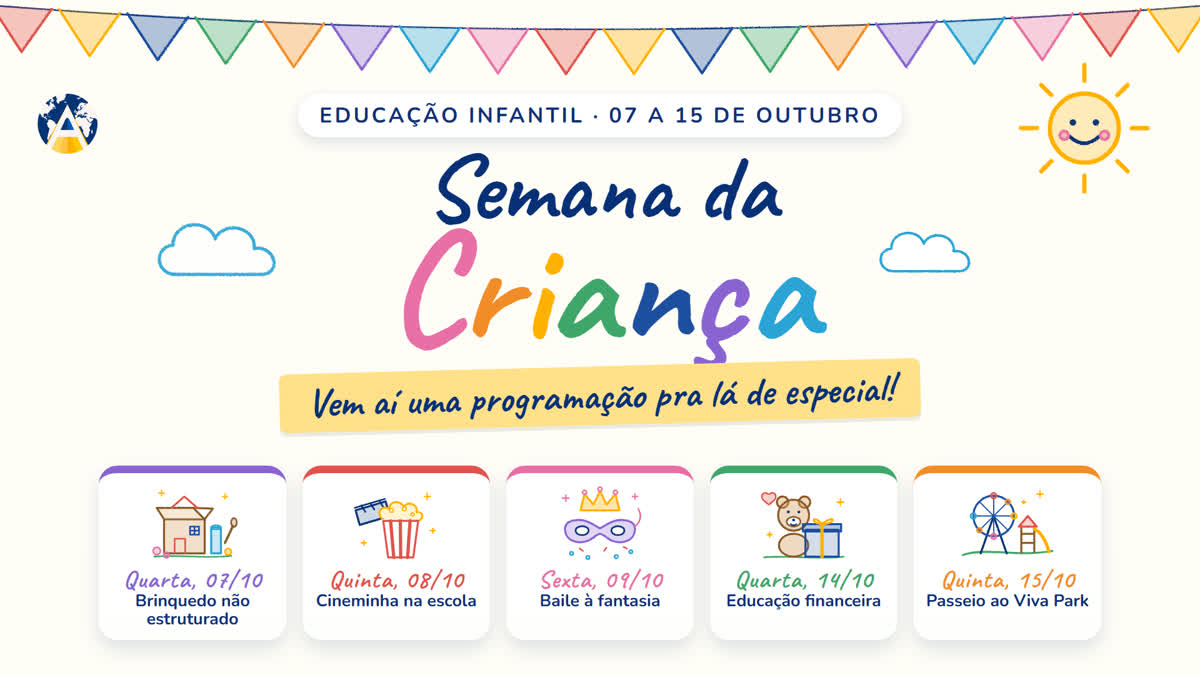
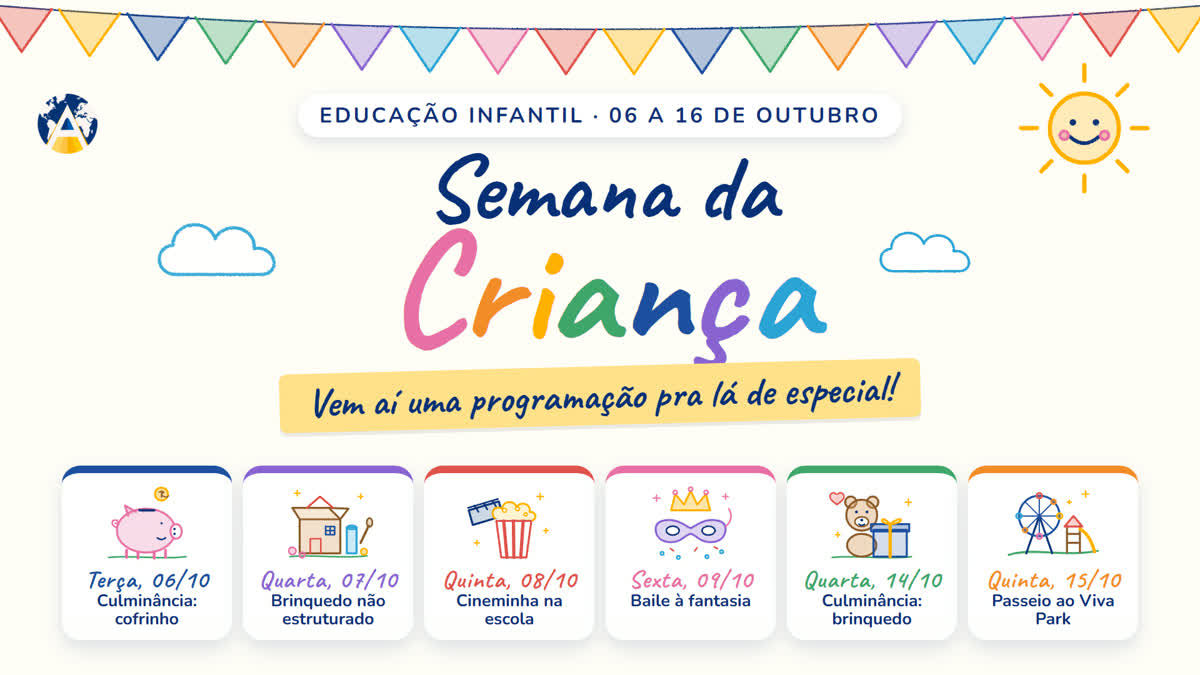
fix(semanadacrianca): programação revisada pela coordenação do Infantil (06/10 culminância, 09/10 baile com texto novo, 12/10 feriado, 15/10 passeio 13h–17h sem aula, 16/10 sem aula)

Changed region(s): [[0.0308, 0.6844, 0.9558, 0.9333], [0.8942, 0.6844, 0.9558, 0.7156], [0.5242, 0.1556, 0.5858, 0.1867]]

diff --git a/public/semanadacrianca/index.html b/public/semanadacrianca/index.html
@@ -4,9 +4,9 @@
 <meta charset="utf-8">
 <meta name="viewport" content="width=device-width, initial-scale=1, viewport-fit=cover">
 <title>Semana da Criança · Infantil</title>
-<meta name="description" content="Programação da Semana da Criança da Educação Infantil, de 07 a 15 de outubro.">
+<meta name="description" content="Programação da Semana da Criança da Educação Infantil, de 06 a 16 de outubro.">
 <meta property="og:title" content="Semana da Criança · Educação Infantil">
-<meta property="og:description" content="07 a 15 de outubro: vire as páginas e veja a programação de cada dia.">
+<meta property="og:description" content="06 a 16 de outubro: vire as páginas e veja a programação de cada dia.">
 <meta property="og:image" content="https://www.escolaamadeus.com/semanadacrianca/banner.jpg">
 <meta property="og:image:width" content="1200"><meta property="og:image:height" content="675"><meta property="og:url" content="https://www.escolaamadeus.com/semanadacrianca"><meta name="theme-color" content="#FAF7F0">
 <link rel="preconnect" href="https://fonts.googleapis.com">
@@ -57,11 +57,11 @@
   .agenda-p .miolo { justify-content: safe center; }
   .agenda-p h2 { font: 700 42px/.95 Caveat, cursive; color: var(--mar); }
   .agenda-p .sub { margin-top: 6px; font-size: 15px; }
-  .agenda { list-style: none; margin-top: 16px; display: grid; gap: 10px; }
-  .agenda li { display: grid; grid-template-columns: 64px 1fr; gap: 12px; align-items: center; cursor: pointer; }
-  .agenda .mini { width: 64px; height: 58px; border-radius: 14px; background: color-mix(in srgb, var(--c) 10%, #fff); border: 2px dashed color-mix(in srgb, var(--c) 45%, #fff); padding: 3px; }
-  .agenda b { display: block; font: 700 22px/1 Caveat, cursive; color: var(--c); }
-  .agenda span { font-weight: 800; font-size: 15px; line-height: 1.15; color: var(--mar); }
+  .agenda { list-style: none; margin-top: 12px; display: grid; gap: 7px; }
+  .agenda li { display: grid; grid-template-columns: 52px 1fr; gap: 12px; align-items: center; cursor: pointer; }
+  .agenda .mini { width: 52px; height: 46px; border-radius: 14px; background: color-mix(in srgb, var(--c) 10%, #fff); border: 2px dashed color-mix(in srgb, var(--c) 45%, #fff); padding: 3px; }
+  .agenda b { display: block; font: 700 20px/1 Caveat, cursive; color: var(--c); }
+  .agenda span { font-weight: 800; font-size: 14px; line-height: 1.15; color: var(--mar); }
   .agenda-p .toque { margin-top: 14px; font-size: 13px; opacity: .7; }
 
   /* página do dia */
@@ -123,7 +123,10 @@
   const C = ILU.C;
   const $ = id => document.getElementById(id);
 
+  // Programação revisada pela coordenação do Infantil (29/09): entraram 06/10, 12/10 e 16/10; mudaram 09/10 e 15/10.
   const DIAS = [
+    { cor: C.azul, data: 'Terça, 06/10', ilu: 'cofrinho', t: 'Culminância do Projeto Educação Financeira',
+      p: 'Abrir o cofrinho…' },
     { cor: C.rox, data: 'Quarta, 07/10', ilu: 'caixa', t: 'Brinquedo não estruturado', sub: 'imaginação solta!',
       p: 'A caixa vira casinha, o pote vira tambor, o rolinho vira telefone… <b>Qualquer objeto pode virar uma grande brincadeira!</b>',
       bilhete: ['Não esqueça!', 'Um objeto <b>identificado com o nome</b>: caixa de papelão, potes, rolinhos, tampinhas, tecidos, colher de pau, tubos…'] },
@@ -131,14 +134,17 @@
       p: 'Uma sessão especial de cinema, com direito a escurinho e muita emoção.',
       bilhete: ['Não esqueça!', 'A <b>pipoquinha</b>! 🍿'] },
     { cor: C.ros, data: 'Sexta, 09/10', ilu: 'fantasia', t: 'Baile à fantasia', sub: 'hoje eu sou quem eu quiser!',
-      p: 'Hora de escolher a fantasia, soltar a imaginação e virar o personagem preferido.',
-      bilhete: ['Venha…', '<b>fantasiado</b>, do jeitinho que escolher!'],
-      mais: 'Dia do <b>Projeto de Educação Financeira</b>: cada criança, com a família, abre o <b>cofrinho</b> e compra o seu sonho de curto prazo.<br>📸 Gravem esse momento e <b>marquem a escola no Instagram</b>!' },
+      p: 'Neste dia, as crianças poderão vir <b>fantasiadas</b> para participar desse momento especial. E os pais que desejarem também poderão vir buscar seus filhos fantasiados. Fiquem à vontade para entrar na brincadeira e juntos fazer aquele registro.' },
+    { cor: C.cel, data: 'Segunda, 12/10', ilu: 'casa', t: 'Feriado',
+      bilhete: ['Atenção!', 'Não haverá aula.'] },
     { cor: C.verde, data: 'Quarta, 14/10', ilu: 'presente', t: 'Culminância da Educação Financeira', sub: 'o sonho realizado!',
       p: 'Chegou o grande dia de compartilhar as conquistas com os colegas.',
       bilhete: ['Não esqueça!', 'O <b>brinquedo escolhido</b> com o cofrinho, para mostrar e contar como foi.'] },
     { cor: C.lar, data: 'Quinta, 15/10', ilu: 'parque', t: 'Passeio ao Viva Park', sub: 'partiu parque!',
-      p: 'Para as crianças que aderiram ao ingresso, chegou o dia de aproveitar esse passeio superespecial!' },
+      p: 'Para as crianças que aderiram ao ingresso, chegou o dia de aproveitar esse passeio superespecial!',
+      bilhete: ['Atenção!', '⏰ <b>Das 13h às 17h.</b> Neste dia não haverá aula.'] },
+    { cor: C.mar, data: 'Sexta, 16/10', ilu: 'professor', t: 'Não haverá aula',
+      p: 'Este dia será destinado à compensação do feriado do <b>Dia do Professor</b> (15/10).' },
   ];
 
   const cores = [C.ver, C.lar, C.ama, C.verde, C.azul, C.rox, C.ros];
@@ -148,20 +154,20 @@
       <div class="selo">EDUCAÇÃO INFANTIL</div>
       <h1>Semana da<span class="grande">${[...'Criança'].map((l, i) => `<span style="color:${cores[i]};animation-delay:${i * .12}s">${l}</span>`).join('')}</span></h1>
       <div class="desenho">${ILU.capa()}</div>
-      <div class="datas">07 a 15 de outubro</div>
+      <div class="datas">06 a 16 de outubro</div>
       <p class="intro">Mamãe e papai, preparem a criançada! Uma programação cheia de brincadeiras, descobertas e muita diversão.</p>
       <div class="virar">vire a página →</div></div></div>`);
   paginas.push(`<div class="face agenda-p"><div class="sombra"></div><div class="miolo">
       <h2>Anote na agenda da família</h2>
-      <p class="sub">Uma surpresa diferente a cada dia:</p>
+      <p class="sub">A programação, dia a dia:</p>
       <ul class="agenda">${DIAS.map((d, i) => `<li data-ir="${i + 2}" style="--c:${d.cor}"><div class="mini">${ILU[d.ilu]()}</div><div><b>${d.data}</b><span>${d.t}</span></div></li>`).join('')}</ul>
       <p class="toque">Toque num dia para ir direto a ele.</p>
       <div class="num">1</div></div></div>`);
   DIAS.forEach((d, i) => paginas.push(`<div class="face dia" style="--c:${d.cor}"><div class="sombra"></div><div class="miolo">
       <div class="data">${d.data}</div>
       <div class="desenho">${ILU[d.ilu]()}</div>
-      <h2>${d.t}</h2><div class="sub">${d.sub}</div>
-      <p>${d.p}</p>
+      <h2>${d.t}</h2>${d.sub ? `<div class="sub">${d.sub}</div>` : ""}
+      ${d.p ? `<p>${d.p}</p>` : ""}
       ${d.bilhete ? `<div class="bilhete"><strong>${d.bilhete[0]}</strong>${d.bilhete[1]}</div>` : ''}
       ${d.mais ? `<div class="mais"><div class="cofre">${ILU.cofrinho()}</div><strong>E tem mais!</strong>${d.mais}</div>` : ''}
       <div class="num">${i + 2}</div></div></div>`));

diff --git a/public/semanadacrianca/ilustra.js b/public/semanadacrianca/ilustra.js
@@ -141,6 +141,37 @@
       [est(190, 30, 8) + est(150, 50, 5), C.ama, 3.5],
     ], 'Desenho de roda-gigante e escorregador'),
 
+    // 12/10 feriado: casinha com a família em casa, sol e coração
+    casa: () => desenho('0 0 220 200', [
+      ['M12 184 C70 178 150 190 208 182', C.verde, 4],
+      ['M54 182 V104 H150 V182', C.mar, 5, '#08307812'],
+      ['M40 108 L102 54 L164 108', C.ver, 6, f(C.ver, '33')],
+      ['M88 182 V144 H116 V182', C.ama, 5, f(C.ama, '44')],
+      ['M66 118 h20 v20 h-20 z M76 118 v20 M66 128 h20 M122 118 h20 v20 h-20 z M132 118 v20 M122 128 h20', C.azul, 4],
+      ['M132 76 V52 h12 v34', C.mar2, 5],
+      ['M142 44 c6 -8 -4 -12 2 -20 M150 42 c6 -8 -4 -12 2 -20', C.cel, 3],
+      [circ(186, 44, 16), C.ama, 5, f(C.ama, '40')],
+      ['M186 18v-8 M186 70v8 M160 44h-8 M212 44h6', C.ama, 4],
+      ['M32 60 c-6 -8 -18 2 -8 12 l8 6 l8 -6 c10 -10 -2 -20 -8 -12', C.ros, 4, f(C.ros, '55')],
+      [est(26, 130, 6) + est(196, 130, 6), C.ama, 3.5],
+    ], 'Desenho de casinha com sol: feriado em casa'),
+
+    // 16/10 compensação do Dia do Professor: livro aberto, maçã e lápis
+    professor: () => desenho('0 0 220 200', [
+      ['M12 184 C70 178 150 190 208 182', C.verde, 4],
+      ['M30 150 C60 136 90 140 110 154 C130 140 160 136 190 150 V176 C160 162 130 166 110 180 C90 166 60 162 30 176 Z', C.azul, 5, f(C.azul, '22')],
+      ['M110 154 V180', C.azul, 4],
+      ['M48 156 C62 150 80 150 94 158 M48 166 C62 160 80 160 94 168 M126 158 C140 150 158 150 172 156', C.azul, 2.5],
+      [circ(112, 96, 32), C.ver, 5, f(C.ver, '44')],
+      ['M112 64 C112 52 118 46 126 42', C.mar2, 5],
+      ['M118 58 C128 46 146 48 150 56 C138 62 126 62 118 58 Z', C.verde, 4, f(C.verde, '55')],
+      ['M96 88 q6 -8 12 -2', '#FFFFFF', 4],
+      ['M166 60 L196 120', C.ama, 10],
+      ['M196 120 l3 12 l-9 -8', C.mar2, 4],
+      ['M160 50 l6 10', C.ros, 10],
+      [est(40, 60, 8) + est(60, 110, 5), C.ama, 3.5],
+    ], 'Desenho de livro aberto, maçã e lápis'),
+
     // fim: arco-íris com nuvens e corações
     arco: () => desenho('0 0 220 140', [
       ['M24 116 C28 20 192 20 196 116', C.ver, 8],
